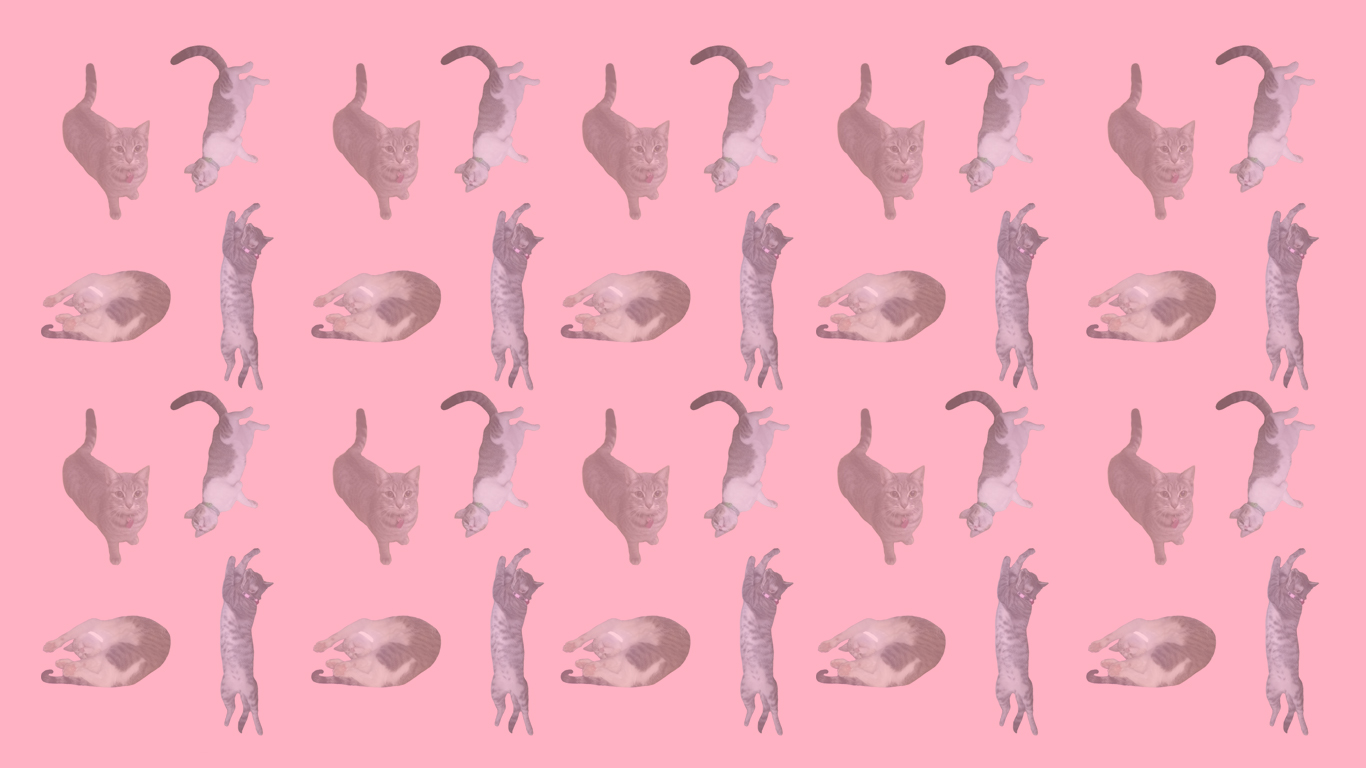
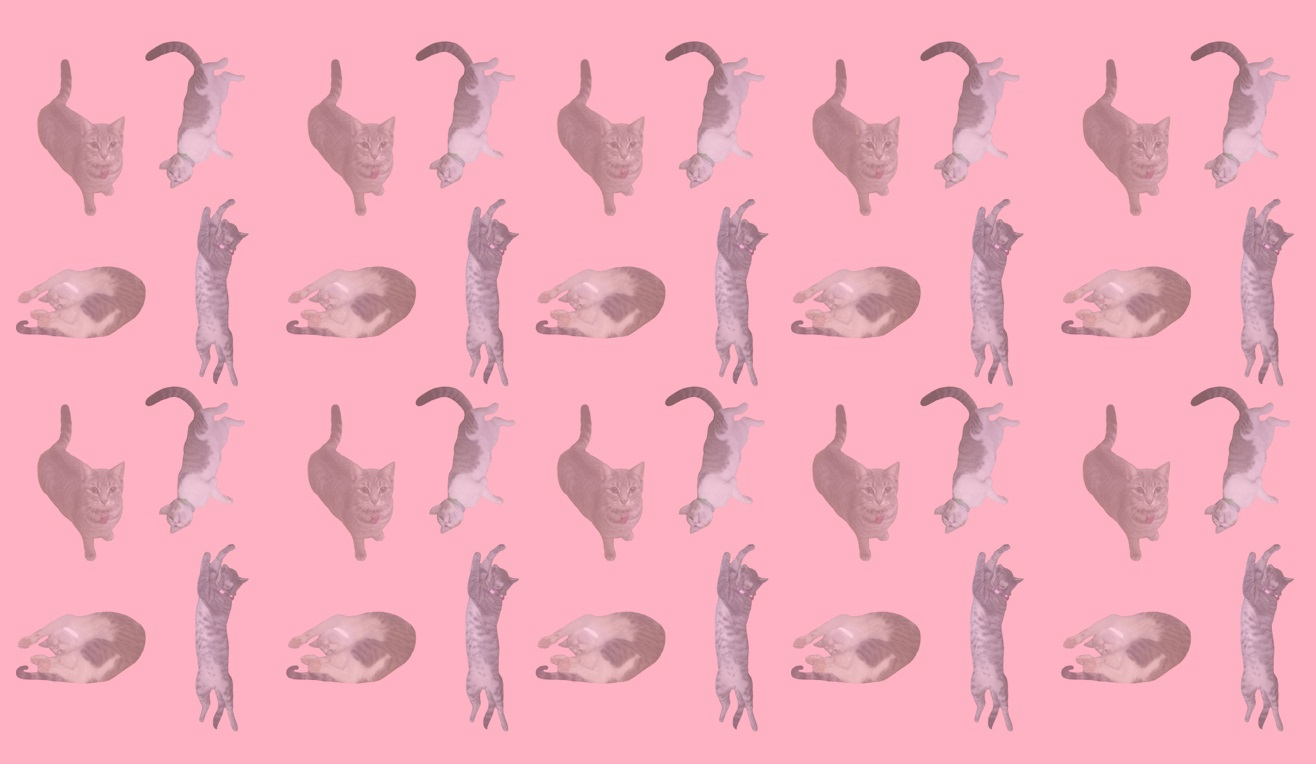
fixed bg

diff --git a/index.html b/index.html
@@ -3,11 +3,18 @@
 <head>
 	<title>tomo cave</title>
 	<link rel="stylesheet" type="text/css" href="css/main.css" media="screen">
+	<style type="text/css">
+		body { 
+			background-image: url(both/cat_bg.jpg); 
+			background-repeat: repeat;
+			background-attachment: fixed;
+			resize: 75%;
+		}
+	</style>
 </head>
 <body>
-	<div class="header"> 
-		<img class="title" scr="pngs/tomocave_title.png">
-		<h1> Hello </h1>
+	<div id="header">
+		<h1> tomo cave </h1>
 	</div>
 </body>
 </html>

diff --git a/css/main.css b/css/main.css
@@ -1,6 +1,19 @@
 @import url('https://fonts.googleapis.com/css?family=Fredoka+One&display=swap');
 @import url('https://fonts.googleapis.com/css?family=Comfortaa&display=swap');
 
-body { 
-	background-image: url("both/cat_bg.jpg"); 
+div {
+	float: middle;
+	padding-top: 3px;
+	padding-bottom: 3px;
+}
+
+#header {
+	padding-left: 3px;
+	padding-right: 3px;
+}
+
+h1 {
+	font-family: 'Fredoka One';
+	font-size: 100px;
+	color: #ffffff;
 }
